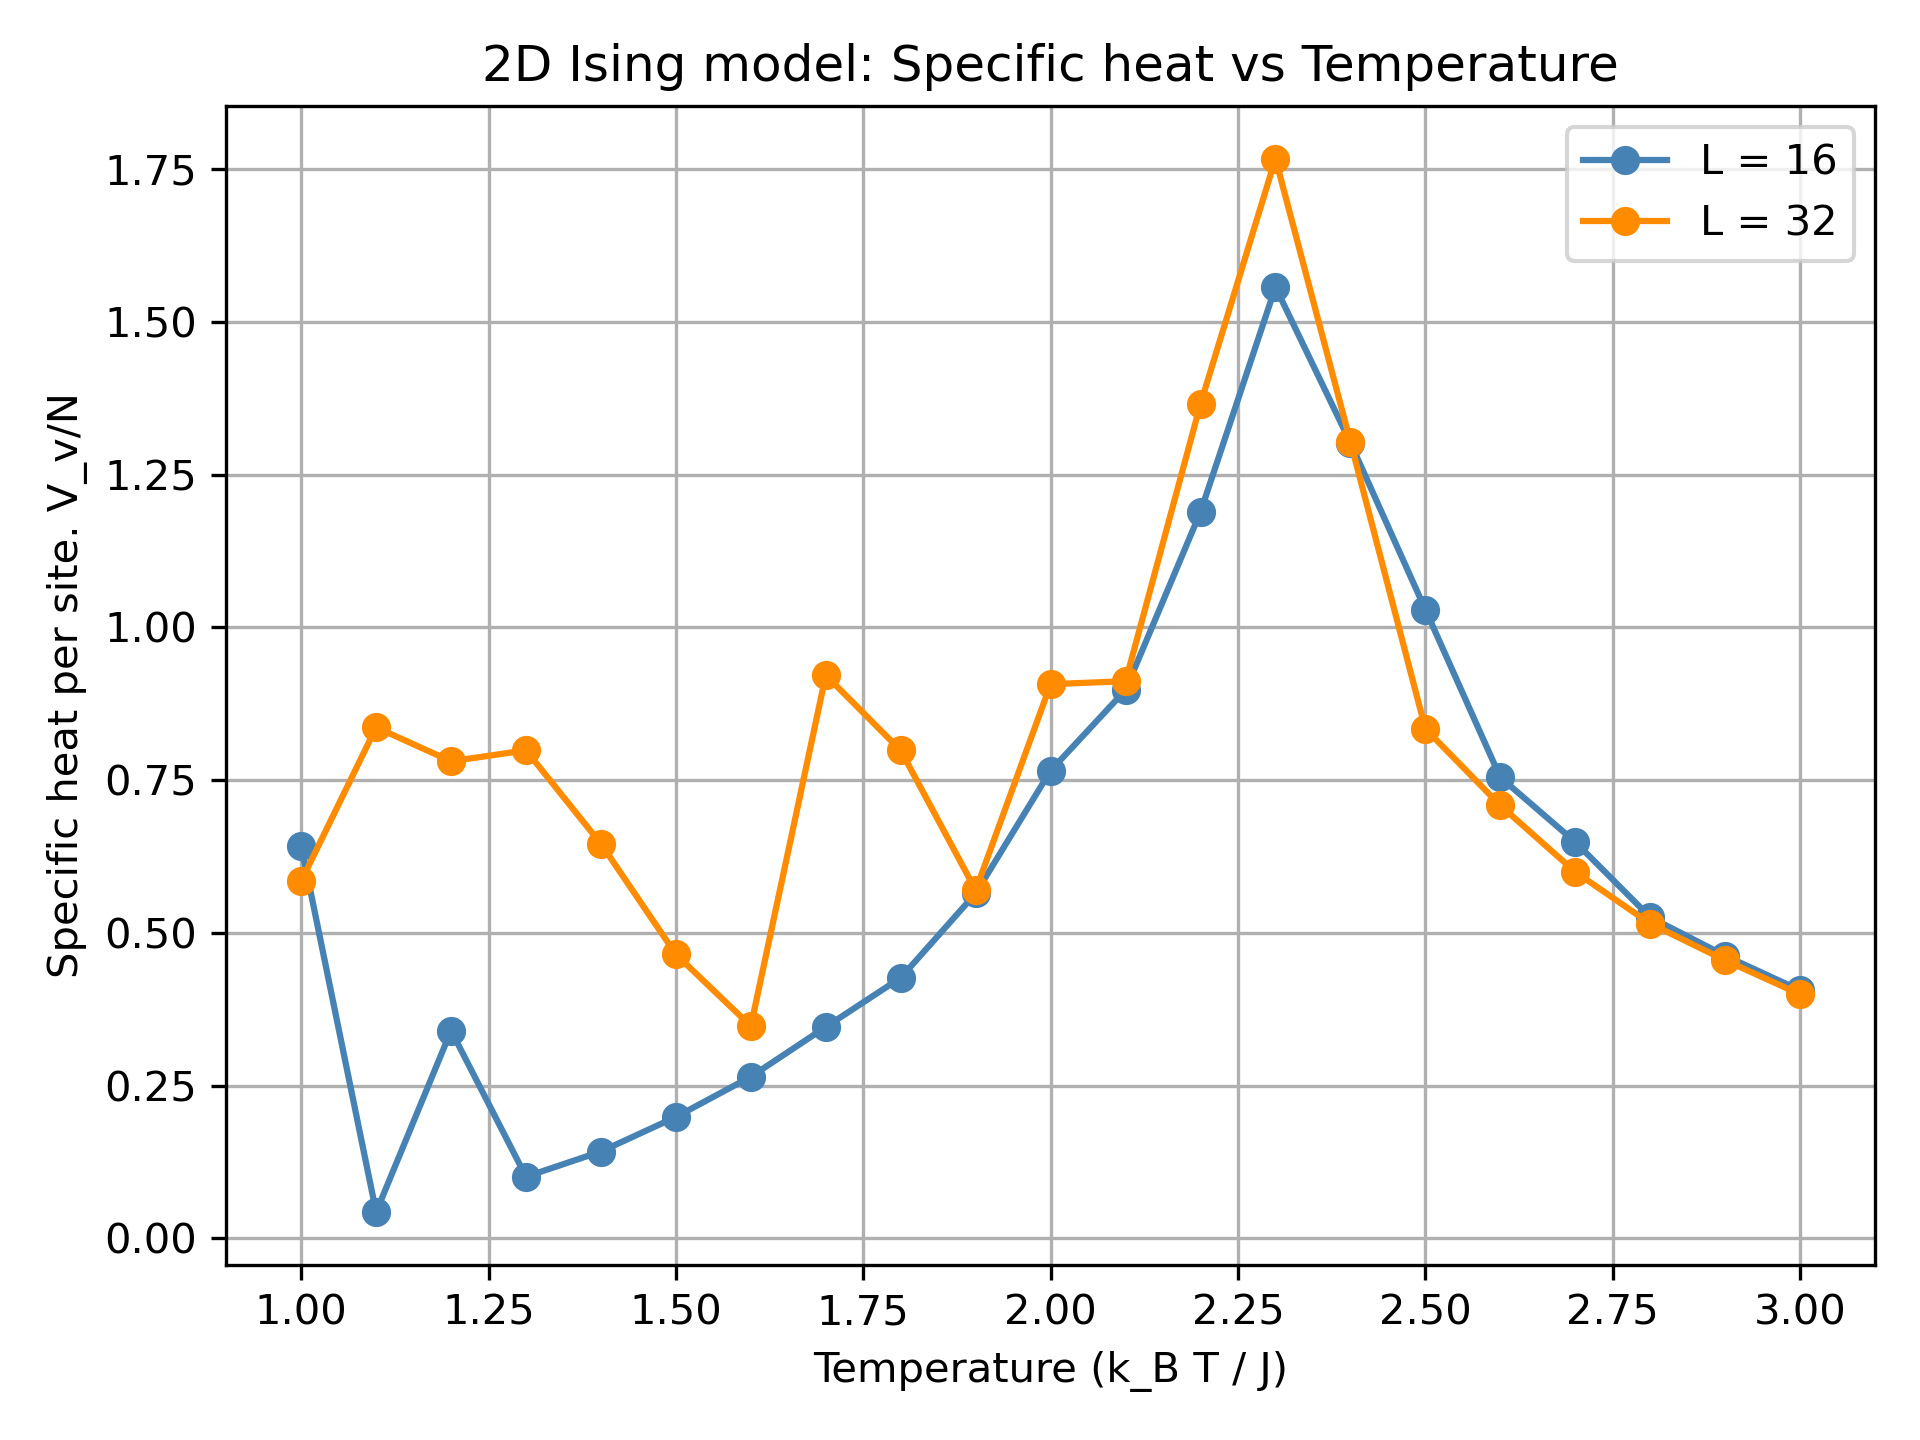
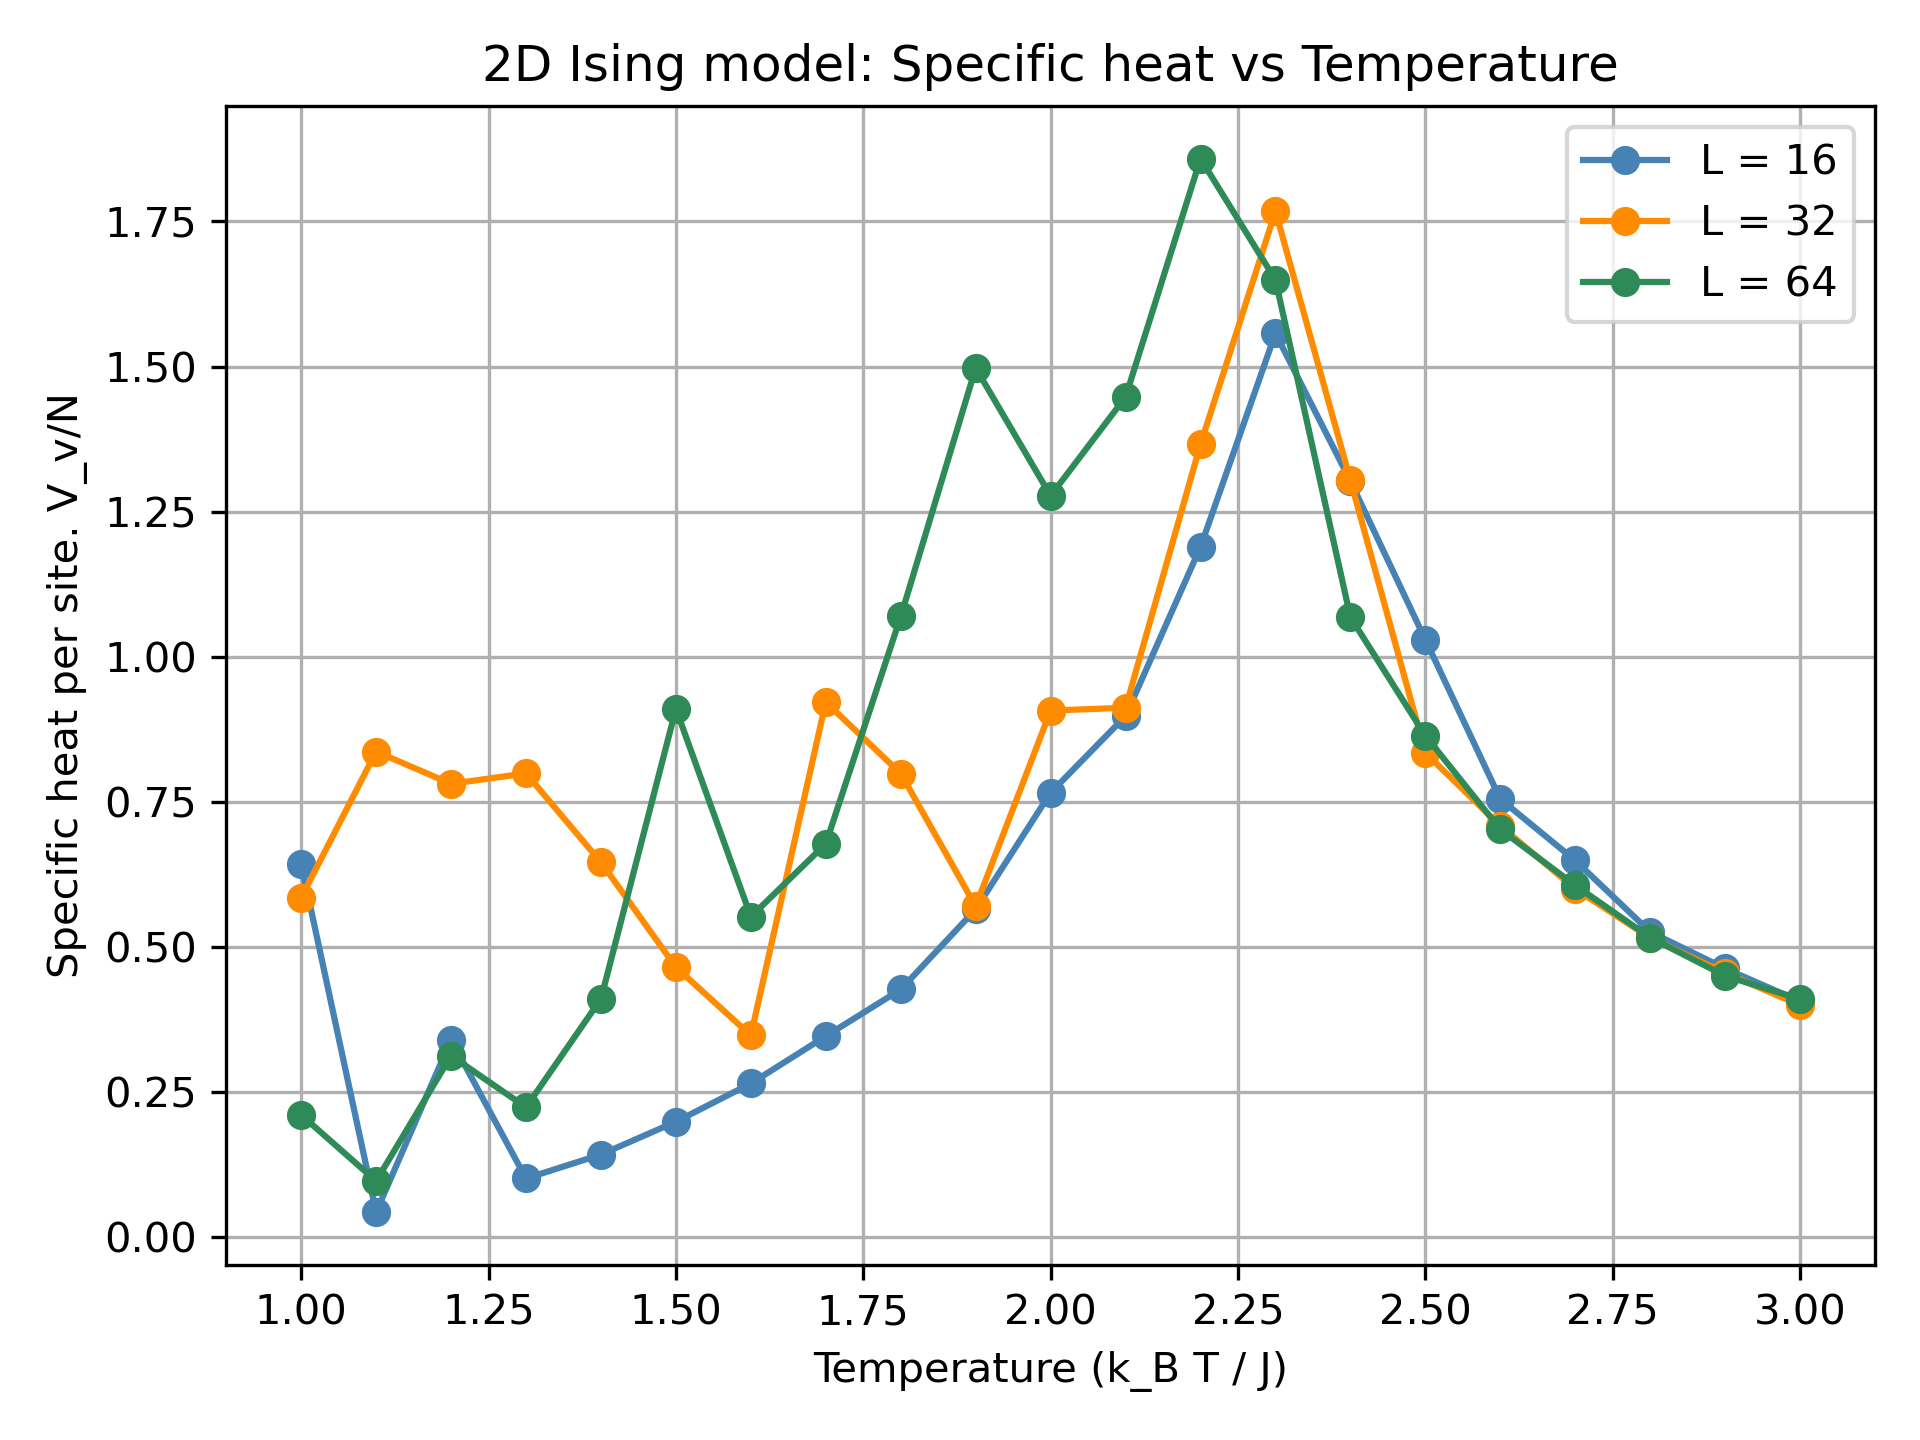
chnaging r_values to distances in spin correlation to abide by pylint rules

diff --git a/task4.py b/task4.py
@@ -56,7 +56,7 @@ def total_energy(lattice, j_val=1.0):
 
 def delta_energy(lattice, row, col, new_angle, j_val=1.0):
     """
-    Compute the chnage in enrgy from updating one spin angle.
+    Compute the change in enrgy from updating one spin angle.
     only the four nearest neighbours contribute to the local energy.
     """
     size = lattice.shape[0]
@@ -141,15 +141,15 @@ def spin_correlation(lattice, max_r=None):
     if max_r is None:
         max_r = size // 2
 
-    r_values = np.arange(0, max_r + 1)
-    correlations = np.zeros(len(r_values))
+    distances = np.arange(0, max_r + 1)
+    correlations = np.zeros(len(distances))
 
-    for idx, r in enumerate(r_values):
+    for idx, r in enumerate(distances):
         # Shift lattice by r along x-axis (axis=1) with periodic wrapping
         shifted = np.roll(lattice, -r, axis=1)
         correlations[idx] = np.mean(np.cos(lattice - shifted))
 
-    return r_values, correlations
+    return distances, correlations
 
 # pylint: disable=too-many-arguments,too-many-positional-arguments
 def run_simulation(size, temperature, n_sweeps, j_val=1.0, seed=1234,
@@ -179,12 +179,12 @@ def run_simulation(size, temperature, n_sweeps, j_val=1.0, seed=1234,
 
     acceptance_rate = total_accepted / (n_sweeps * size * size)
 
-    r_values, correlations = spin_correlation(lattice)
+    distances, correlations = spin_correlation(lattice)
 
     return (
         mean_energy,
         specific_heat,
-        r_values,
+        distances,
         correlations,
         acceptance_rate,
     )
@@ -206,7 +206,7 @@ if __name__ == "__main__":
 
     if RANK == 0:
         print("2D XY Model - Metropolis Monte Carlo")
-        print(f"Lattice size:       {L} x {L}")
+        print(f"Lattice size:       {LATTICE_SIZES}")
         print(f"Temperature range:  {TEMPERATURES[0]:.2f} to "
               f"{TEMPERATURES[-1]:.2f} kBT/J")
         print(f"Temperature points: {len(TEMPERATURES)}")
@@ -224,7 +224,7 @@ if __name__ == "__main__":
     all_correlations = {}
 
     for lattice_size in LATTICE_SIZES:
- 
+
         if RANK == 0:
             print(f"--- Simulating L = {lattice_size} ---")
         # Storage for results (only populated on rank 0)
@@ -235,7 +235,7 @@ if __name__ == "__main__":
         correlation_data = {}
 
         for temp in TEMPERATURES:
- 
+
             (
                 local_mean_energy,
                 local_cv,
@@ -259,7 +259,7 @@ if __name__ == "__main__":
             total_acceptance = COMM.reduce(
                 local_acceptance, op=MPI.SUM, root=0
             )
- 
+
             # Reduce correlation array element-wise to rank 0
             total_correlations = COMM.reduce(
                 local_correlations, op=MPI.SUM, root=0
@@ -270,14 +270,14 @@ if __name__ == "__main__":
                 global_cv = total_cv / N_RANKS
                 global_acceptance = total_acceptance / N_RANKS
                 global_correlations = total_correlations / N_RANKS
- 
+
                 energy_per_site = global_mean_energy / (lattice_size * lattice_size)
- 
+
                 temp_results.append(temp)
                 cv_results.append(global_cv)
                 energy_results.append(energy_per_site)
                 correlation_data[round(temp, 2)] = global_correlations
- 
+
                 print(
                     f"L = {lattice_size}, T = {temp:.2f} | "
                     f"<E>/N = {energy_per_site:.4f} | "
@@ -305,7 +305,7 @@ if __name__ == "__main__":
                 marker="o",
                 label=f"L = {lattice_size}",
                 color=colour,
-            )       
+            )
         plt.xlabel("Temperature ($k_B T / J$)")
         plt.ylabel(r"Specific heat per site $C_v / N$")
         plt.title("2D XY Model: Specific Heat vs Temperature")